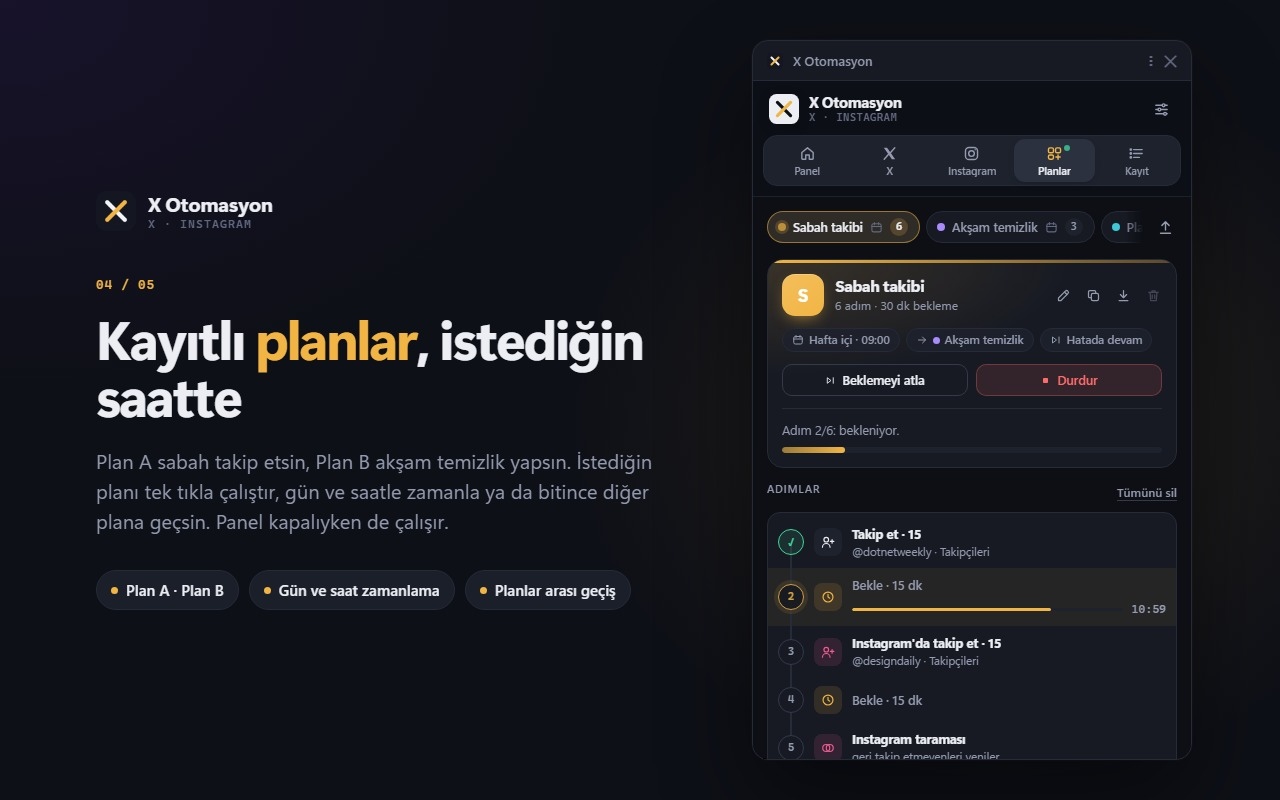
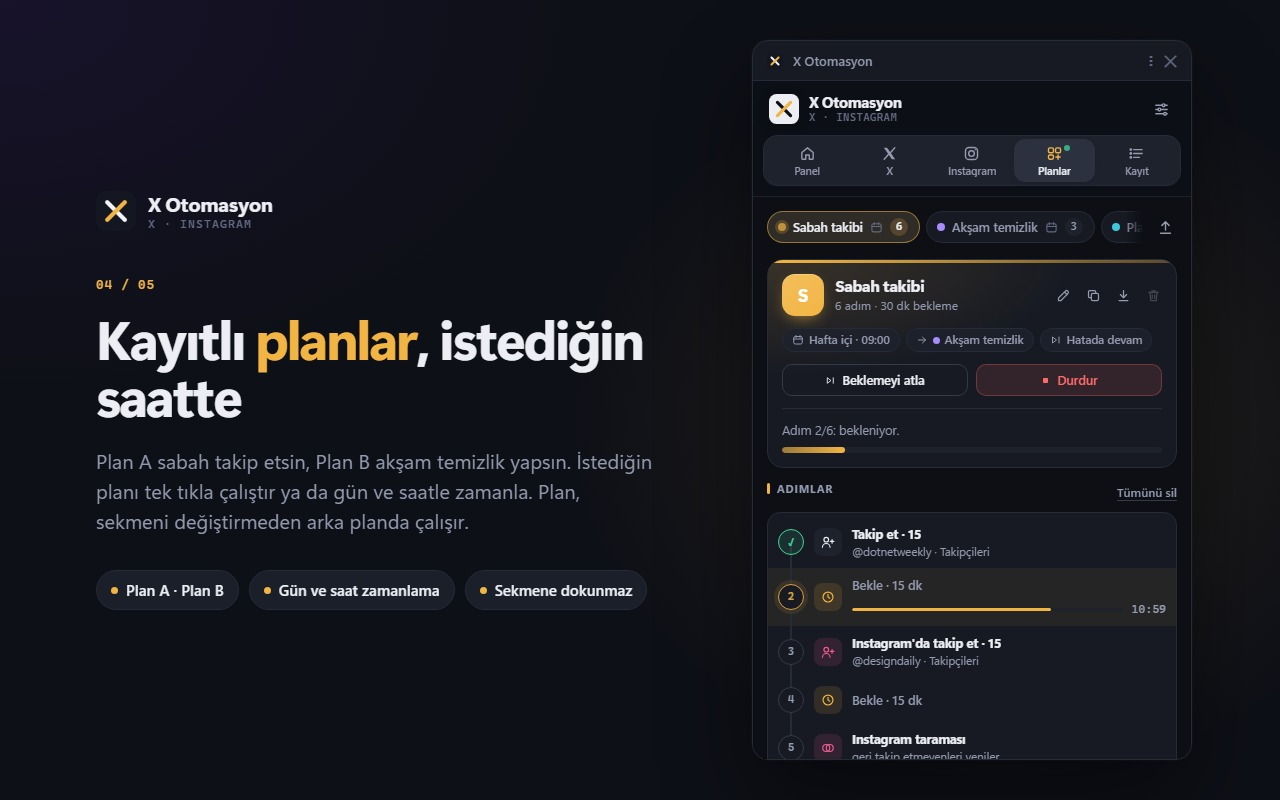
feat: plans run without switching tabs, live tempo strip and refreshed UI (v2.5.0)
- Plan steps (and scheduled starts) no longer bring the X / Instagram
  tab to the front; a missing X tab is opened in the background.
  Tasks started by hand from the panel still switch to the tab.
- Live tempo strip under the header: what's running, countdown to the
  next action, click to open the related section.
- Segmented two-column daily gauges, single accounts card, glowing
  running module, level-coloured log rows, larger titles.
- Step-type tiles wrap long labels; plan hint updated in 6 languages.
- README and store screenshots updated.

Changed region(s): [[0.0625, 0.5938, 0.5, 0.6875], [0.375, 0.7188, 0.5, 0.75], [0.5938, 0.5938, 0.6562, 0.625]]

diff --git a/extension/sidepanel/style.css b/extension/sidepanel/style.css
@@ -183,19 +183,46 @@ svg { display: block; flex: none; }
   background: var(--go); animation: pulse 1.6s ease-in-out infinite;
 }
 
+/* ---- canlı tempo şeridi (imza öğe) ---- */
+.strip-slot { padding: 0 10px; }
+.strip-slot:empty { display: none; }
+/* ayrıntının zaten göründüğü ekranlarda şerit tekrar etmesin */
+#app:has(.view[data-view="home"]) .strip-slot,
+#app:has(.view[data-view="queue"]) .strip-slot:has(.strip[data-view="queue"]) { display: none; }
+.strip {
+  --pc: var(--go);
+  position: relative; overflow: hidden;
+  display: grid; grid-template-columns: auto 1fr auto; align-items: center; gap: 10px;
+  width: 100%; margin: 0 0 10px; padding: 8px 12px 10px;
+  border: 1px solid color-mix(in srgb, var(--pc) 35%, var(--line)); border-radius: 12px;
+  background: linear-gradient(90deg, color-mix(in srgb, var(--pc) 13%, var(--surface)), var(--surface) 70%);
+  text-align: left;
+}
+.strip:hover { border-color: color-mix(in srgb, var(--pc) 60%, var(--line)); }
+.strip .pdot { width: 9px; height: 9px; }
+.strip .pf { min-width: 0; }
+.strip-text { display: flex; flex-direction: column; min-width: 0; line-height: 1.25; }
+.strip-text b { overflow: hidden; text-overflow: ellipsis; white-space: nowrap; font-size: 12.5px; }
+.strip-text small { overflow: hidden; text-overflow: ellipsis; white-space: nowrap; color: var(--muted); font-size: 11.5px; }
+.strip-clock { color: var(--pace); font-size: 15px; font-weight: 700; letter-spacing: -0.02em; }
+.strip-bar { position: absolute; left: 0; right: 0; bottom: 0; height: 3px; }
+.strip-bar span { display: block; height: 100%; background: var(--pace); animation: drain var(--left, 0ms) linear forwards; }
+
 /* ---------------------------------------------------------------- görünüm */
 
 .view { display: flex; flex-direction: column; gap: 14px; padding: 14px 14px 32px; }
-.view-title { margin: 0; font: 650 17px/1.2 var(--font-display); letter-spacing: -0.01em; }
+.view-title { margin: 2px 0 0; font: 700 21px/1.15 var(--font-display); letter-spacing: -0.025em; }
 .block { display: flex; flex-direction: column; gap: 8px; }
 .block-head { display: flex; align-items: baseline; justify-content: space-between; }
 .eyebrow {
+  display: flex; align-items: center; gap: 7px;
   margin: 0;
-  font: 600 11px/1.2 var(--font);
+  font: 650 11px/1.2 var(--font);
   color: var(--muted);
-  letter-spacing: .06em;
+  letter-spacing: .07em;
   text-transform: uppercase;
 }
+.block > .eyebrow::before, .block-head > .eyebrow::before { content: ""; width: 3px; height: 11px; border-radius: 2px; background: var(--pace); }
 .card {
   background: var(--surface);
   border: 1px solid var(--line);
@@ -203,6 +230,10 @@ svg { display: block; flex: none; }
   box-shadow: var(--shadow);
   padding: 14px;
 }
+@media (prefers-color-scheme: dark) {
+  :root:not([data-theme="light"]) .card, :root:not([data-theme="light"]) .module, :root:not([data-theme="light"]) .phero { box-shadow: inset 0 1px 0 rgba(255, 255, 255, .035); }
+}
+:root[data-theme="dark"] .card, :root[data-theme="dark"] .module, :root[data-theme="dark"] .phero { box-shadow: inset 0 1px 0 rgba(255, 255, 255, .035); }
 .card.form { display: flex; flex-direction: column; gap: 10px; }
 .empty { margin: 0; padding: 14px 12px; color: var(--faint); font-size: 12.5px; text-align: center; }
 .note { margin: 0 0 10px; padding: 8px 10px; border-radius: var(--r-sm); font-size: 12px; background: var(--raised); color: var(--muted); }
@@ -254,13 +285,19 @@ svg { display: block; flex: none; }
 
 /* ---------------------------------------------------------------- hesaplar */
 
-.acct-list { display: flex; flex-direction: column; gap: 6px; }
-.acct {
-  display: grid; grid-template-columns: auto 1fr auto; align-items: center; gap: 10px;
-  padding: 9px 10px;
+.acct-list {
+  display: flex; flex-direction: column;
   border: 1px solid var(--line); border-radius: var(--r);
+  background: var(--surface); box-shadow: var(--shadow); overflow: hidden;
+}
+.acct-list > div + div { border-top: 1px solid var(--line); }
+.acct {
+  display: grid; grid-template-columns: auto 1fr auto; align-items: center; gap: 11px;
+  padding: 11px 12px;
   background: var(--surface);
 }
+.view[data-view="x"] > [data-slot="acct:x"] .acct,
+.view[data-view="ig"] > [data-slot="acct:ig"] .acct { border: 1px solid var(--line); border-radius: var(--r); box-shadow: var(--shadow); }
 .view[data-view="x"] > [data-slot="acct:x"],
 .view[data-view="ig"] > [data-slot="acct:ig"] { margin-bottom: -2px; }
 .acct-icon {
@@ -284,15 +321,21 @@ svg { display: block; flex: none; }
 
 /* ---------------------------------------------------------------- günlük sayaçlar */
 
-.meters { display: flex; flex-direction: column; gap: 10px; }
-.meter { display: grid; grid-template-columns: 1fr auto; align-items: baseline; gap: 5px 10px; }
-.meter-label { display: flex; align-items: center; gap: 7px; font-size: 12.5px; }
-.meter-val { font-size: 13px; font-weight: 600; }
-.meter-val small { color: var(--faint); font-weight: 500; font-size: 11.5px; }
-.meter-bar { grid-column: 1 / -1; height: 4px; border-radius: 4px; background: var(--raised); overflow: hidden; }
-.meter-bar span { display: block; height: 100%; border-radius: 4px; background: var(--text); transition: width .4s ease; }
+/* her gösterge bir ölçü aleti: 20 bölmeli skala, dolan bölmeler günlük tavana yaklaşmayı gösterir */
+.meters { display: grid; grid-template-columns: 1fr 1fr; gap: 16px 18px; }
+.meter { display: grid; grid-template-columns: 1fr; gap: 6px; min-width: 0; }
+.meter-label { display: flex; align-items: center; gap: 6px; min-width: 0; color: var(--muted); font-size: 11.5px; font-weight: 600; white-space: nowrap; overflow: hidden; text-overflow: ellipsis; }
+.meter-val { font-size: 20px; font-weight: 650; line-height: 1; letter-spacing: -0.03em; }
+.meter-val small { color: var(--faint); font-weight: 500; font-size: 12px; letter-spacing: 0; }
+.meter-bar {
+  --seg: repeating-linear-gradient(90deg, #000 0 calc(5% - 2px), transparent calc(5% - 2px) 5%);
+  height: 9px; background: var(--line);
+  -webkit-mask-image: var(--seg); mask-image: var(--seg);
+}
+.meter-bar span { display: block; height: 100%; background: var(--go); transition: width .5s cubic-bezier(.2, .8, .2, 1); }
 .meter.high .meter-bar span { background: var(--pace); }
 .meter.full .meter-bar span { background: var(--stop); }
+.meter.full .meter-val { color: var(--stop); }
 .pf {
   display: inline-block; min-width: 20px;
   padding: 2px 4px; border-radius: 4px;
@@ -316,6 +359,12 @@ svg { display: block; flex: none; }
   box-shadow: var(--shadow);
   padding: 14px 14px 0;
 }
+.module { transition: border-color .2s ease, box-shadow .2s ease; }
+.module:has(.pill.run) {
+  border-color: color-mix(in srgb, var(--go) 45%, var(--line));
+  box-shadow: 0 0 0 3px color-mix(in srgb, var(--go) 12%, transparent), var(--shadow);
+}
+.module:has(.pill.run) .module-icon { background: var(--go-soft); color: var(--go); }
 .module-head { display: grid; grid-template-columns: auto 1fr auto; align-items: center; gap: 10px; }
 .module-icon {
   width: 34px; height: 34px; border-radius: 10px;
@@ -715,7 +764,7 @@ input:focus, select:focus, textarea:focus {
 .ktile-icon svg { width: 14px; height: 14px; }
 .ktile.ig .ktile-icon { color: var(--ig); }
 .ktile.wait .ktile-icon { color: var(--pace); }
-.ktile-label { max-width: 100%; font-size: 11.5px; font-weight: 650; line-height: 1.2; overflow: hidden; text-overflow: ellipsis; white-space: nowrap; }
+.ktile-label { max-width: 100%; min-height: 2.4em; font-size: 11.5px; font-weight: 650; line-height: 1.2; overflow: hidden; display: -webkit-box; -webkit-line-clamp: 2; -webkit-box-orient: vertical; overflow-wrap: anywhere; }
 .ktile .pf { position: absolute; top: 8px; right: 7px; min-width: 0; padding: 1px 4px; font-size: 8.5px; }
 .ktile[aria-pressed="true"] { border-color: var(--text); background: var(--surface); color: var(--text); box-shadow: 0 0 0 1px var(--text) inset; }
 .ktile.ig[aria-pressed="true"] { border-color: var(--ig); box-shadow: 0 0 0 1px var(--ig) inset; }
@@ -851,6 +900,11 @@ input:focus, select:focus, textarea:focus {
   font-size: 12px;
 }
 .ln:first-child { border-top: 0; }
+.ln { position: relative; padding-left: 13px; }
+.ln::before { content: ""; position: absolute; left: 0; top: 8px; bottom: 8px; width: 3px; border-radius: 0 3px 3px 0; background: transparent; }
+.ln.ok::before { background: var(--go); }
+.ln.warn::before { background: var(--pace); }
+.ln.error::before { background: var(--stop); }
 .ln time { color: var(--faint); font-size: 11px; }
 .ln span { min-width: 0; overflow-wrap: anywhere; }
 .ln.info span { color: var(--muted); }

diff --git a/extension/lib/i18n.js b/extension/lib/i18n.js
@@ -136,7 +136,7 @@
       navQueue: "Planlar",
       qTitle: "Plan",
       qDesc: "Adımlar sırayla çalışır: bir adım bitince sıradaki başlar, \"Bekle\" adımı belirtilen süre kadar bekletir. Panel kapalıyken de devam eder.",
-      qHint: "Filtreler, işlemler arası bekleme ve günlük tavanlar X ve Instagram sekmelerindeki modül ayarlarından alınır; adım yalnızca kaynağı ve adedi belirler. Plan çalışırken ilgili sekmeyi açık tut.",
+      qHint: "Filtreler, işlemler arası bekleme ve günlük tavanlar X ve Instagram sekmelerindeki modül ayarlarından alınır; adım yalnızca kaynağı ve adedi belirler. Plan, X ve Instagram sekmelerini öne getirmeden arka planda çalışır; sen başka sekmede gezinebilirsin, yalnızca bu sekmeleri kapatma.",
       qSteps: "Adımlar",
       qEmpty: "Bu planda henüz adım yok. Aşağıdan tür seçip ekle ya da hızlı kurulumu kullan.",
       qAddTitle: "Adım ekle",
@@ -558,7 +558,7 @@
       navQueue: "Plans",
       qTitle: "Plan",
       qDesc: "Steps run in order: when a step finishes the next one starts, and a \"Wait\" step pauses for the time you set. It keeps going while the panel is closed.",
-      qHint: "Filters, wait between actions and daily caps come from the module settings in the X and Instagram sections; a step only sets its source and count. Keep the related tab open while a plan runs.",
+      qHint: "Filters, wait between actions and daily caps come from the module settings in the X and Instagram sections; a step only sets its source and count. A plan runs in the background without bringing the X or Instagram tab to the front, so you can keep browsing other tabs; just don't close those tabs.",
       qSteps: "Steps",
       qEmpty: "This plan has no steps yet. Pick a type below and add one, or use quick setup.",
       qAddTitle: "Add a step",
@@ -980,7 +980,7 @@
       navQueue: "Pläne",
       qTitle: "Plan",
       qDesc: "Die Schritte laufen nacheinander: Ist ein Schritt fertig, startet der nächste; ein „Warten“-Schritt pausiert für die eingestellte Zeit. Läuft auch bei geschlossenem Panel weiter.",
-      qHint: "Filter, Wartezeiten zwischen Aktionen und Tageslimits kommen aus den Moduleinstellungen in den Bereichen X und Instagram; ein Schritt legt nur Quelle und Anzahl fest. Lass den betreffenden Tab geöffnet, solange ein Plan läuft.",
+      qHint: "Filter, Wartezeiten zwischen Aktionen und Tageslimits kommen aus den Moduleinstellungen in den Bereichen X und Instagram; ein Schritt legt nur Quelle und Anzahl fest. Ein Plan läuft im Hintergrund, ohne den X- oder Instagram-Tab nach vorn zu holen; du kannst in anderen Tabs weitersurfen, schließ nur diese Tabs nicht.",
       qSteps: "Schritte",
       qEmpty: "Dieser Plan hat noch keine Schritte. Wähle unten eine Art und füge einen hinzu oder nutze die Schnelleinrichtung.",
       qAddTitle: "Schritt hinzufügen",
@@ -1402,7 +1402,7 @@
       navQueue: "Planes",
       qTitle: "Plan",
       qDesc: "Los pasos se ejecutan en orden: cuando uno termina empieza el siguiente, y un paso «Esperar» hace una pausa del tiempo indicado. Sigue funcionando con el panel cerrado.",
-      qHint: "Los filtros, la espera entre acciones y los límites diarios salen de los ajustes de los módulos en las secciones X e Instagram; un paso solo fija su fuente y cantidad. Mantén abierta la pestaña correspondiente mientras el plan esté en marcha.",
+      qHint: "Los filtros, la espera entre acciones y los límites diarios salen de los ajustes de los módulos en las secciones X e Instagram; un paso solo fija su fuente y cantidad. Un plan se ejecuta en segundo plano sin traer al frente la pestaña de X o Instagram; puedes seguir navegando en otras pestañas, solo no cierres esas.",
       qSteps: "Pasos",
       qEmpty: "Este plan aún no tiene pasos. Elige un tipo abajo y añádelo, o usa la configuración rápida.",
       qAddTitle: "Añadir paso",
@@ -1824,7 +1824,7 @@
       navQueue: "Plans",
       qTitle: "Plan",
       qDesc: "Les étapes s'enchaînent : quand une étape se termine, la suivante démarre, et une étape « Attendre » fait une pause de la durée choisie. Continue même panneau fermé.",
-      qHint: "Les filtres, l'attente entre les actions et les limites quotidiennes viennent des réglages des modules dans les sections X et Instagram ; une étape fixe seulement sa source et son nombre. Garde l'onglet concerné ouvert pendant l'exécution d'un plan.",
+      qHint: "Les filtres, l'attente entre les actions et les limites quotidiennes viennent des réglages des modules dans les sections X et Instagram ; une étape fixe seulement sa source et son nombre. Un plan s'exécute en arrière-plan sans ramener l'onglet X ou Instagram au premier plan ; tu peux continuer à naviguer ailleurs, ne ferme simplement pas ces onglets.",
       qSteps: "Étapes",
       qEmpty: "Ce plan n'a pas encore d'étape. Choisis un type ci-dessous et ajoute-la, ou utilise la configuration rapide.",
       qAddTitle: "Ajouter une étape",
@@ -2246,7 +2246,7 @@
       navQueue: "Piani",
       qTitle: "Piano",
       qDesc: "I passaggi vengono eseguiti in ordine: quando uno finisce parte il successivo, e un passaggio «Attendi» fa una pausa per il tempo indicato. Continua anche a pannello chiuso.",
-      qHint: "Filtri, attesa tra le azioni e limiti giornalieri vengono dalle impostazioni dei moduli nelle sezioni X e Instagram; un passaggio imposta solo fonte e quantità. Tieni aperta la scheda interessata mentre il piano è in corso.",
+      qHint: "Filtri, attesa tra le azioni e limiti giornalieri vengono dalle impostazioni dei moduli nelle sezioni X e Instagram; un passaggio imposta solo fonte e quantità. Un piano funziona in background senza portare in primo piano la scheda di X o Instagram; puoi continuare a navigare in altre schede, basta non chiudere quelle.",
       qSteps: "Passaggi",
       qEmpty: "Questo piano non ha ancora passaggi. Scegli un tipo qui sotto e aggiungilo, oppure usa la configurazione rapida.",
       qAddTitle: "Aggiungi passaggio",

diff --git a/extension/sidepanel/app.js b/extension/sidepanel/app.js
@@ -247,6 +247,7 @@ function renderAll() {
       <nav class="tabs" role="tablist" aria-label="${esc(T('navLabel'))}">
         ${tabs.map(([v, label, icon]) => `<button type="button" role="tab" class="tab" data-action="view" data-view="${v}" aria-selected="false">${icon}<span class="tab-label">${esc(label)}</span><span class="tab-dot" data-slot="dot:${v}"></span></button>`).join('')}
       </nav>
+      <div class="strip-slot" data-slot="strip"></div>
     </div>
     <main id="view" class="view"></main>
     <div class="toasts" id="toasts" role="status" aria-live="polite"></div>
@@ -703,6 +704,51 @@ SLOTS.active = () => {
     <div class="active-head">${pf(PLATFORM_OF[id])}<b>${esc(T('task.' + id))}</b>${stopBtn(id)}</div>
     ${runBlock(id)}
   </div>`).join('');
+};
+
+// Canlı tempo şeridi: çalışan plan ya da görev, sıradaki işleme geri sayım. Boşta görünmez.
+function stripWait(nextAt, from) {
+  const now = Date.now();
+  if (!nextAt || nextAt <= now) return { clock: '', bar: '' };
+  const left = nextAt - now;
+  const pct = Math.max(0, Math.min(100, (left / Math.max(1, nextAt - (from || now))) * 100));
+  return { clock: fmtClock(left), bar: `<span style="width:${pct.toFixed(2)}%;--left:${Math.round(left)}ms"></span>` };
+}
+const waitKey = (r) => (r.waitReason === 'cooldown' ? 'waitCooldown' : r.waitReason === 'scanPause' ? 'waitScanPause' : 'waitNext');
+SLOTS.strip = () => {
+  const ids = Object.keys(PLATFORM_OF).filter((id) => S.tasks[id] && S.tasks[id].running);
+  const run = S.queueRun;
+  let view, color = '', title, sub, w, platform;
+  if (run && run.running) {
+    const rp = planById(run.planId);
+    view = 'queue';
+    color = rp ? rp.color : 'amber';
+    title = rp ? rp.name : run.planName || T('qTitle');
+    const step = rp && rp.steps.find((st) => st.id === run.stepId);
+    const r = step && Q_TASK[step.kind] ? S.tasks[Q_TASK[step.kind]] : null;
+    if (run.phase === 'task' && r && r.running) {
+      w = stripWait(r.nextAt, r.waitFrom);
+      sub = `${T('task.' + Q_TASK[step.kind])} · ${T(w.clock ? waitKey(r) : 'working')}`;
+    } else {
+      w = stripWait(run.waitUntil, run.waitFrom);
+      sub = qStatusText().replace(/[.。]$/, '');
+    }
+  } else if (ids.length) {
+    const id = ids[0];
+    const r = S.tasks[id];
+    platform = PLATFORM_OF[id];
+    view = platform;
+    title = T('task.' + id) + (ids.length > 1 ? ` +${ids.length - 1}` : '');
+    w = stripWait(r.nextAt, r.waitFrom);
+    const c = r.counts || {};
+    sub = `${T(w.clock ? waitKey(r) : 'working')} · ${c.done || 0} ✓`;
+  } else return '';
+  return `<button type="button" class="strip" data-action="view" data-view="${view}" ${color ? `data-color="${color}"` : ''}>
+    ${platform ? pf(platform) : '<i class="pdot on" aria-hidden="true"></i>'}
+    <span class="strip-text"><b>${esc(title)}</b><small>${esc(sub)}</small></span>
+    <b class="strip-clock mono">${w.clock}</b>
+    <span class="strip-bar" aria-hidden="true">${w.bar}</span>
+  </button>`;
 };
 
 SLOTS.recent = () => logLines(S.logs.slice(-6).reverse());
@@ -1998,6 +2044,6 @@ document.addEventListener('error', (e) => {
 }, true);
 
 // Geri sayım, tempo çizgisi ve göreli zamanlar saniyede bir tazelenir.
-setInterval(() => renderDynamic(['run', 'active', 'igact', 'pill', 'dot', 'qsteps', 'pbar', 'phead', 'pstate']), 1000);
+setInterval(() => renderDynamic(['run', 'active', 'igact', 'pill', 'dot', 'qsteps', 'pbar', 'phead', 'pstate', 'strip']), 1000);
 
 load().then(renderAll);

diff --git a/extension/background.js b/extension/background.js
@@ -44,7 +44,8 @@ function finish(rec, status) {
 const senderTab = (sender) => (sender && sender.tab ? sender.tab.id : null);
 
 // ---- Sekme bulma: önce bu pencerenin etkin sekmesi, sonra en son kullanılan, yoksa yeni sekme ----
-async function resolveTab(platform) {
+// quiet: plan adımları kullanıcının o an baktığı sekmeyi değiştirmez; yeni sekme arka planda açılır.
+async function resolveTab(platform, quiet) {
   const tabs = await chrome.tabs.query({ url: MATCH[platform] });
   if (tabs.length) {
     const win = await chrome.windows.getLastFocused().catch(() => null);
@@ -54,7 +55,7 @@ async function resolveTab(platform) {
       tabs.sort((a, b) => (b.lastAccessed || 0) - (a.lastAccessed || 0))[0];
     return { tab: pick, created: false };
   }
-  const tab = await chrome.tabs.create({ url: HOME[platform], active: true });
+  const tab = await chrome.tabs.create({ url: HOME[platform], active: !quiet });
   return { tab, created: true };
 }
 
@@ -71,7 +72,9 @@ async function startTask(task, payload) {
   const busy = Object.keys(current).find((id) => current[id].running && XO_TASKS[id] === platform);
   if (busy) return { ok: false, error: 'errPlatformBusy', p: { task: busy } };
 
-  const { tab, created } = await resolveTab(platform);
+  // Plan adımı: görev arka plandaki sekmede çalışır (x-awake ve arka plan zamanlayıcısı bunun için var).
+  const quiet = !!(payload && payload.queueStep);
+  const { tab, created } = await resolveTab(platform, quiet);
   const rec = {
     running: true, status: 'running', tabId: tab.id, startedAt: Date.now(), endedAt: 0,
     counts: { done: 0, skipped: 0, errors: 0 }, ticks: [], nextAt: 0, navTries: 0, pos: 0, progress: null
@@ -88,7 +91,7 @@ async function startTask(task, payload) {
   });
   if (refused) return { ok: false, error: 'errPlatformBusy', p: { task: refused } };
 
-  await focusTab(tab);
+  if (!quiet) await focusTab(tab);
   if (!created) {
     try { await chrome.tabs.sendMessage(tab.id, { type: 'run', task, tabId: tab.id }); }
     catch { await chrome.tabs.reload(tab.id).catch(() => {}); } // betik yoksa (eski sekme) yenile; yüklenince görevi devralır

diff --git a/README.md b/README.md
@@ -100,11 +100,12 @@ Bir plan, sırayla çalışan adımlardan oluşur. İstediğin kadar plan kayded
 - Adım türleri: X'te takip et, beğen, takipten çık, temizle; Instagram'da takip et, tara, takipten çık (geri takip etmeyenlerden ya da eklentinin N gün önce takip ettiklerinden); bekle.
 - **Hızlı kurulum:** `a, b, c` + adet + bekleme yaz; adımlar otomatik oluşur.
 - Bir adım hata ya da günlük tavanla biterse planı durdur ya da sonrakine geç; beklemeyi atla.
-- Planı arka plan yürütür; **panel kapalıyken de devam eder**. Önceki sürümdeki görev sırası "Plan A" olarak korunur.
+- Planı arka plan yürütür; **panel kapalıyken de devam eder**. Plan bir adıma geçerken **X / Instagram sekmesini öne getirmez**: sen başka bir sitede (ör. YouTube) gezinirken iş arka plandaki sekmede ilerler; X sekmesi yoksa yenisi arka planda açılır. Önceki sürümdeki görev sırası "Plan A" olarak korunur.
 
 **Panel**
 
-- Hesap durumu, günlük tavanlar ve kullanım çubukları.
+- **Canlı tempo şeridi:** bir plan ya da görev çalışırken başlığın altında; ne çalıştığı, sıradaki işleme geri sayım, tıklayınca ilgili bölüm.
+- Hesap durumu, bölmeli günlük göstergeler (tavana yaklaşınca kehribar, dolunca kırmızı).
 - **Tempo** çizgisi: son 10 dakikadaki işlemler ve bir sonraki işleme geri sayım.
 - Canlı işlem kaydı (filtrelenebilir, dışa aktarılabilir), açık/koyu tema, 6 dil.
 
@@ -126,7 +127,7 @@ Bir plan, sırayla çalışan adımlardan oluşur. İstediğin kadar plan kayded
 
 **İpuçları**
 
-- X görevleri X sekmesinde çalışır. Görev başladıktan sonra **başka sekmeye geçebilirsin**: eklenti X sekmesini arka planda da kaydırıp yeni içerik yükletir ve sekmenin Chrome tarafından boşaltılmasını engeller. Yalnızca X sekmesini kapatma.
+- X görevleri X sekmesinde çalışır. Görev başladıktan sonra **başka sekmeye geçebilirsin**: eklenti X sekmesini arka planda da kaydırıp yeni içerik yükletir ve sekmenin Chrome tarafından boşaltılmasını engeller. Yalnızca X sekmesini kapatma. Panelden elle başlattığın görevde eklenti X sekmesine geçer; planlar ise sekmeni değiştirmez.
 - Aynı platformda aynı anda tek görev çalışır; görevin sekmesi kapanırsa görev durur.
 - X art arda 3 işlemi uygulamazsa (büyük olasılıkla hız sınırı) görev kendini durdurur.
 - Başlangıç için öneri: takipte günde 50–100, işlemler arası 10–30 sn.
@@ -222,11 +223,12 @@ A plan is a list of steps that run in order. Save as many plans as you like (e.g
 - Step types: on X follow, like, unfollow, clean up; on Instagram follow, scan, unfollow (from non-followers, or accounts the extension followed N days ago); wait.
 - **Quick setup:** enter `a, b, c` + count + wait; the steps are created for you.
 - On an error or daily cap either stop the plan or move on; skip a wait.
-- The background worker runs the plan, so **it keeps going with the panel closed**. The task queue from earlier versions is kept as "Plan A".
+- The background worker runs the plan, so **it keeps going with the panel closed**. Moving to the next step **never brings the X / Instagram tab to the front**: you can keep browsing another site (e.g. YouTube) while the work continues in the background tab; if there's no X tab, one is opened in the background. The task queue from earlier versions is kept as "Plan A".
 
 **Panel**
 
-- Account status, daily caps and usage meters.
+- **Live tempo strip:** under the header while a plan or task runs; shows what's running and a countdown to the next action, and opens the related section when clicked.
+- Account status and segmented daily gauges (amber near the cap, red when full).
 - **Tempo** line: actions in the last 10 minutes and a countdown to the next one.
 - Live activity log (filterable, exportable), light/dark theme, 6 languages.
 
@@ -248,7 +250,7 @@ A plan is a list of steps that run in order. Save as many plans as you like (e.g
 
 **Tips**
 
-- X tasks run in the X tab. Once a task starts **you can switch to another tab**: the extension keeps scrolling the X tab and loading new content in the background, and stops Chrome from discarding the tab. Just don't close the X tab.
+- X tasks run in the X tab. Once a task starts **you can switch to another tab**: the extension keeps scrolling the X tab and loading new content in the background, and stops Chrome from discarding the tab. Just don't close the X tab. A task you start from the panel switches to the X tab; plans never switch your tab.
 - One task per platform at a time; closing the task's tab stops it.
 - If X rejects 3 actions in a row (most likely a rate limit), the task stops itself.
 - A sensible start: 50–100 follows a day, 10–30 s between actions.
